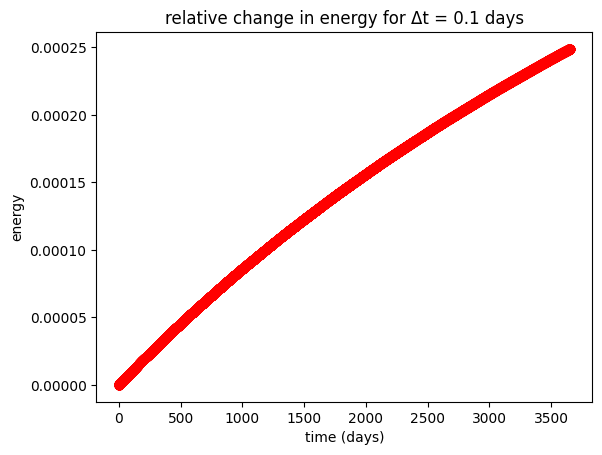
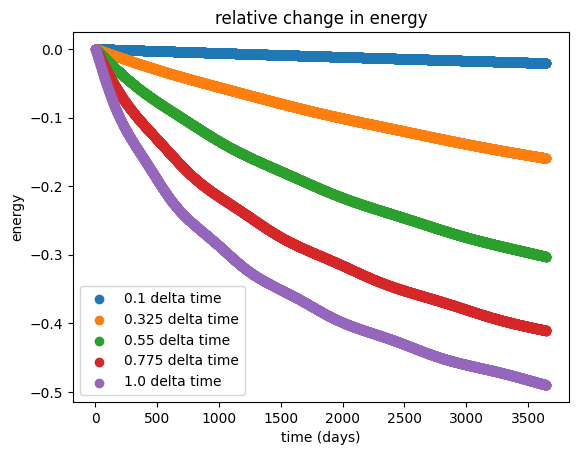
updates to hw3

diff --git a/hwthree.py b/hwthree.py
@@ -26,9 +26,8 @@ def acceleration(i_r, j_r, mass):
     return -((G*mass*(i_r - j_r))/((((i_r[0] - j_r[0])**2) + ((i_r[1] - j_r[1])**2))**(3/2)))
 
 def energy(e_pos, e_vel, s_pos, s_vel):
-    return -((G*mass_sun*mass_earth)/(np.abs(np.linalg.norm(e_pos) - np.linalg.norm(s_pos)))) \
-    + 0.5*(mass_earth)*((np.linalg.norm(e_vel))**2) + 0.5*(mass_sun)*((np.linalg.norm(s_vel))**2) \
-    + 0.5*((2/5)*mass_earth*radius_earth**2)*((ang_v_earth)**2) + 0.5*((2/5)*mass_sun*radius_sun**2)*((ang_v_sun)**2)
+    return -((G*mass_sun*mass_earth)/(np.abs(np.linalg.norm(e_pos-s_pos)))) \
+    + 0.5*(mass_earth)*((np.linalg.norm(e_vel))**2) + 0.5*(mass_sun)*((np.linalg.norm(s_vel))**2)
 
 def momentum(mass, cur_r, cur_v):
     return mass*np.linalg.norm(cur_r)*np.linalg.norm(cur_v)
@@ -59,7 +58,8 @@ for step in step_arr:
     plt.savefig("Figures/hw_three_figures/2_step_{}.png".format(step), bbox_inches = "tight")
     plt.show()
 
-    if step == 0.1:
+step_arr = np.linspace(0.1, 1, 5)
+for step in step_arr:
         e_pos = [np.array([au_cm,0])] 
         e_vel = [np.array([0, vel])]
         s_pos = [np.array([-(mass_earth*au_cm)/mass_sun,0])]
@@ -73,26 +73,42 @@ for step in step_arr:
             s_pos.append(position(s_pos[i], s_vel[i], step*86400))
             s_vel.append(velocity(s_vel[i], acceleration(s_pos[i],e_pos[i], mass_earth), step*86400))
             energy_arr.append(energy(e_pos[i], e_vel[i], s_pos[i], s_vel[i]))
-            e_momentum.append(momentum(mass_earth, e_pos[i], e_vel[i]) + momentum(mass_sun, s_pos[i], s_vel[i]))
 
         diff_list_energy = []
         for x in range(0,len(energy_arr)):
             diff_list_energy.append((energy_arr[x] - energy_arr[0])/energy_arr[0])
 
+        plt.scatter((time/86400), diff_list_energy, label = "{} delta time".format(step))
+plt.xlabel("time (days)")
+plt.ylabel("energy")
+plt.title("relative change in energy")
+plt.legend()
+plt.savefig("Figures/hw_three_figures/2_energy.png", bbox_inches = "tight")
+plt.show()
+
+for step in step_arr:
+        e_pos = [np.array([au_cm,0])] 
+        e_vel = [np.array([0, vel])]
+        s_pos = [np.array([-(mass_earth*au_cm)/mass_sun,0])]
+        s_vel = [np.array([0,-(mass_earth*vel)/mass_sun])]
+
+        energy_arr = []
+        e_momentum = []
+        for i in range(0,len(time)):
+            e_pos.append(position(e_pos[i], e_vel[i], step*86400))
+            e_vel.append(velocity(e_vel[i], acceleration(e_pos[i],s_pos[i], mass_sun), step*86400))
+            s_pos.append(position(s_pos[i], s_vel[i], step*86400))
+            s_vel.append(velocity(s_vel[i], acceleration(s_pos[i],e_pos[i], mass_earth), step*86400))
+            e_momentum.append(momentum(mass_earth, e_pos[i], e_vel[i]) + momentum(mass_sun, s_pos[i], s_vel[i]))
+
         diff_list_mom = []
         for x in range(0,len(e_momentum)):
             diff_list_mom.append((e_momentum[x] - e_momentum[0])/e_momentum[0])
 
-        plt.scatter((time/86400), diff_list_energy, color = 'r')
-        plt.xlabel("time (days)")
-        plt.ylabel("energy")
-        plt.title('relative change in energy for Δt = {} days'.format(step))
-        plt.savefig("Figures/hw_three_figures/2_energy.png", bbox_inches = "tight")
-        plt.show()
-
-        plt.scatter((time/86400), diff_list_mom, color = 'r')
-        plt.xlabel("time (days)")
-        plt.ylabel("angular momentum")
-        plt.title('relative change in angular momentum Δt = {} days'.format(step))
-        plt.savefig("Figures/hw_three_figures/2_momentum", bbox_inches = "tight")
-        plt.show()
+        plt.scatter((time/86400), diff_list_mom, label = "{} delta time".format(step))
+plt.xlabel("time (days)")
+plt.ylabel("angular momentum")
+plt.title('relative change in angular momentum')
+plt.legend()
+plt.savefig("Figures/hw_three_figures/2_momentum", bbox_inches = "tight")
+plt.show()
